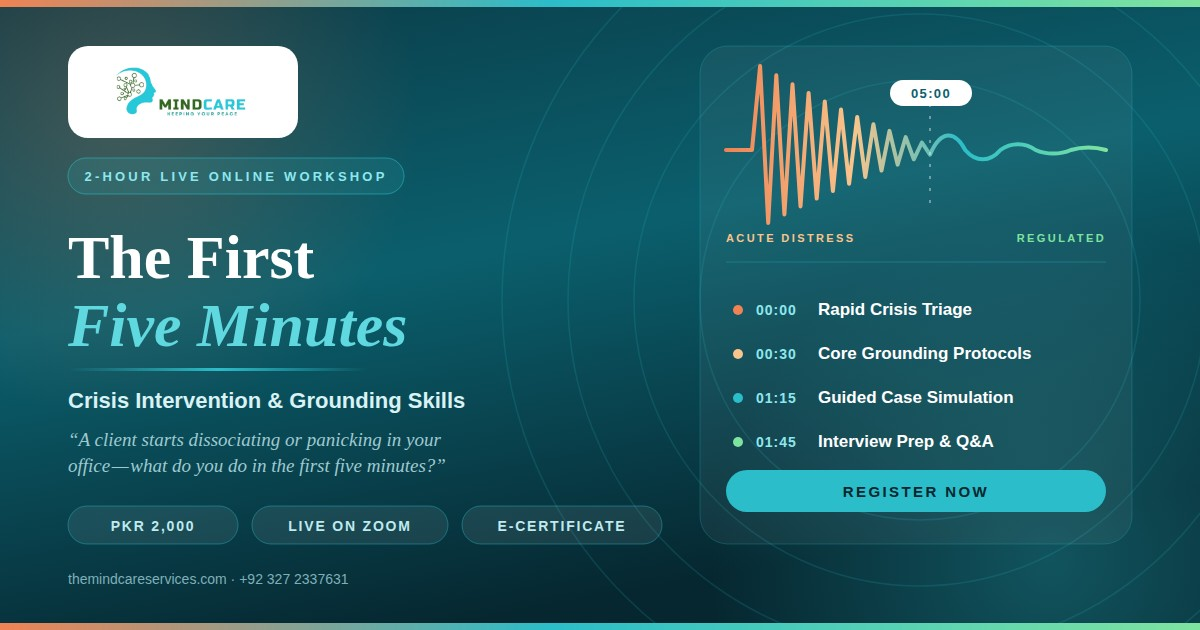
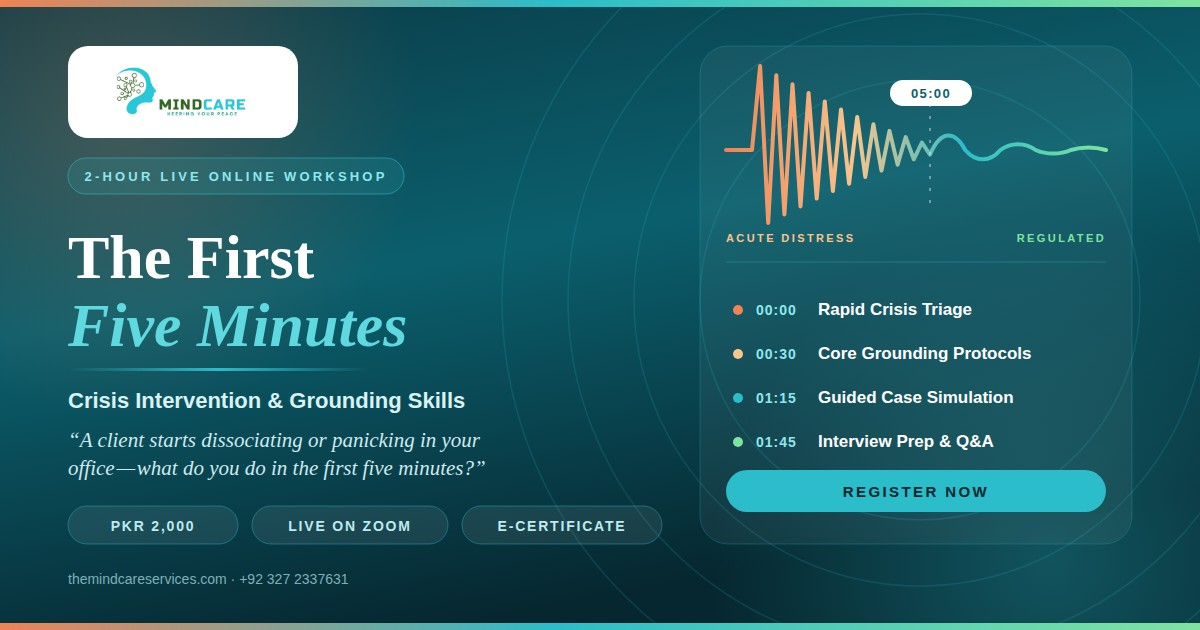
Lead the crisis workshop with its own question
The tagline is the selling point, so it now opens every surface where
the workshop is sold instead of sitting inside a supporting paragraph.

On the poster the question moves above the title: it is what stops the
scroll, and "The First Five Minutes" then reads as the answer to it.
It gains size and contrast on the share card for the same reason.

On the workshop and registration pages it becomes a pull quote directly
under the heading, and on /workshops it is the section heading itself.
It also opens the meta description on both pages, so search and social
previews lead with the question rather than with a course summary.

Claude-Session: https://claude.ai/code/session_01LHTspDj1qpkEuU9zDb3kra

Changed region(s): [[0.0617, 0.6937, 0.4008, 0.754]]

diff --git a/crisis-intervention-workshop/index.html b/crisis-intervention-workshop/index.html
@@ -8,13 +8,13 @@
 <meta name="color-scheme" content="light">
 <meta name="format-detection" content="telephone=yes">
 <title>The First Five Minutes: Crisis Intervention &amp; Grounding Skills | 2-Hour Online Workshop | MindCare Services®</title>
-<meta name="description" content="The First Five Minutes: a two-hour live online workshop for clinicians and psychology students on handling a client&#x27;s panic attack or dissociative episode in real time. Rapid crisis triage under the PFA framework, advanced grounding protocols, a guided case simulation and clinical interview prep. PKR 2,000, live on Zoom, with an e-certificate and a PDF protocol toolkit.">
+<meta name="description" content="A client starts dissociating or panicking in your office—what do you do in the first five minutes? A two-hour live online workshop for clinicians and psychology students: rapid crisis triage under the PFA framework, advanced grounding protocols, a guided case simulation and clinical interview prep. PKR 2,000, live on Zoom, with an e-certificate and a PDF protocol toolkit.">
 <meta name="author" content="MindCare Services®">
 <meta name="robots" content="index, follow, max-image-preview:large, max-snippet:-1">
 <link rel="canonical" href="https://themindcareservices.com/crisis-intervention-workshop">
 <meta property="og:type" content="website">
 <meta property="og:title" content="The First Five Minutes: Crisis Intervention &amp; Grounding Skills | 2-Hour Online Workshop | MindCare Services®">
-<meta property="og:description" content="The First Five Minutes: a two-hour live online workshop for clinicians and psychology students on handling a client&#x27;s panic attack or dissociative episode in real time. Rapid crisis triage under the PFA framework, advanced grounding protocols, a guided case simulation and clinical interview prep. PKR 2,000, live on Zoom, with an e-certificate and a PDF protocol toolkit.">
+<meta property="og:description" content="A client starts dissociating or panicking in your office—what do you do in the first five minutes? A two-hour live online workshop for clinicians and psychology students: rapid crisis triage under the PFA framework, advanced grounding protocols, a guided case simulation and clinical interview prep. PKR 2,000, live on Zoom, with an e-certificate and a PDF protocol toolkit.">
 <meta property="og:url" content="https://themindcareservices.com/crisis-intervention-workshop">
 <meta property="og:image" content="https://themindcareservices.com/assets/workshops/crisis-first-five-og.jpg">
 <meta property="og:image:secure_url" content="https://themindcareservices.com/assets/workshops/crisis-first-five-og.jpg">
@@ -26,7 +26,7 @@
 <meta property="og:locale" content="en_PK">
 <meta name="twitter:card" content="summary_large_image">
 <meta name="twitter:title" content="The First Five Minutes: Crisis Intervention &amp; Grounding Skills | 2-Hour Online Workshop | MindCare Services®">
-<meta name="twitter:description" content="The First Five Minutes: a two-hour live online workshop for clinicians and psychology students on handling a client&#x27;s panic attack or dissociative episode in real time. Rapid crisis triage under the PFA framework, advanced grounding protocols, a guided case simulation and clinical interview prep. PKR 2,000, live on Zoom, with an e-certificate and a PDF protocol toolkit.">
+<meta name="twitter:description" content="A client starts dissociating or panicking in your office—what do you do in the first five minutes? A two-hour live online workshop for clinicians and psychology students: rapid crisis triage under the PFA framework, advanced grounding protocols, a guided case simulation and clinical interview prep. PKR 2,000, live on Zoom, with an e-certificate and a PDF protocol toolkit.">
 <meta name="twitter:image" content="https://themindcareservices.com/assets/workshops/crisis-first-five-og.jpg">
 <meta name="twitter:image:alt" content="The First Five Minutes: a two-hour live online crisis intervention and grounding skills workshop by MindCare Services®">
 <link rel="icon" href="../mindcare.png" type="image/png">
@@ -251,6 +251,13 @@
 .cf-block:nth-child(2) .cf-clock{background:#c9752f}
 .cf-block:nth-child(3) .cf-clock{background:var(--teal-btn)}
 .cf-block:nth-child(4) .cf-clock{background:var(--green)}
+/* The question is the selling line, so it is set as a pull quote ahead of the
+   supporting copy rather than buried inside it. */
+.cf-hook{font-family:'Cormorant Garamond',serif;font-style:italic;font-size:clamp(1.22rem,2.3vw,1.62rem);
+ line-height:1.45;color:var(--teal-deep);max-width:660px;margin:2px 0 20px;padding-left:18px;
+ border-left:4px solid var(--teal)}
+html[dir="rtl"] .cf-hook{padding:0 18px 0 0;border-left:none;border-right:4px solid var(--teal)}
+html[data-theme="dark"] .cf-hook{color:#8fdfe8}
 .cf-honest{background:var(--teal-light);border:1px solid var(--border);border-left:5px solid var(--coral);
  border-radius:16px;padding:24px 28px;max-width:860px;margin:0 auto}
 .cf-honest h3{margin-bottom:10px}
@@ -270,7 +277,8 @@ html[data-theme="dark"] .cf-price strong{color:#6ede8a}
       <li aria-current="page">The First Five Minutes</li></ol>
     <div class="ph-badge"><svg><use href="../assets/sprite.svg#i-clock"/></svg> New &middot; 2-Hour Live Online &middot; Registration Open</div>
     <h1>The First <em>Five Minutes</em></h1>
-    <p class="lede">A client starts dissociating or panicking in your office &mdash; what do you do in the first five minutes? Clinical supervisors and interview panels don&rsquo;t just ask for definitions; they test real-time de-escalation. Two hours, live on Zoom, bridging textbook theory and practical crisis management.</p>
+    <p class="cf-hook">&ldquo;A client starts dissociating or panicking in your office&mdash;what do you do in the first five minutes?&rdquo;</p>
+    <p class="lede">Clinical supervisors and interview panels don&rsquo;t just ask for definitions &mdash; they test real-time de-escalation skills. Bridge the gap between textbook theory and practical crisis management in this intensive two-hour live online workshop.</p>
     <div class="ph-actions">
       <a href="/crisis-intervention-workshop/register" class="btn-primary"><svg width="18" height="18"><use href="../assets/sprite.svg#i-clipboard"/></svg> Reserve My Place &middot; PKR 2,000</a>
       <a href="https://wa.me/923272337631?text=Hi%21%20I%27d%20like%20to%20register%20for%20The%20First%20Five%20Minutes%20crisis%20intervention%20online%20workshop.%20Please%20share%20the%20dates%20and%20Zoom%20details." target="_blank" rel="noopener" class="btn-secondary"><svg width="18" height="18"><use href="../assets/sprite.svg#i-wa"/></svg> Ask us on WhatsApp</a>

diff --git a/crisis-intervention-workshop/register.html b/crisis-intervention-workshop/register.html
@@ -8,13 +8,13 @@
 <meta name="color-scheme" content="light">
 <meta name="format-detection" content="telephone=yes">
 <title>Register: The First Five Minutes Crisis Intervention Workshop | MindCare Services®</title>
-<meta name="description" content="Register for The First Five Minutes, the MindCare Services® two-hour live online crisis intervention and grounding skills workshop. PKR 2,000 covers the live Zoom session, the E-Certificate of Completion and the PDF handout and protocol toolkit. Pay by bank transfer and attach your payment screenshot to the form.">
+<meta name="description" content="A client starts dissociating or panicking in your office—what do you do in the first five minutes? Register for The First Five Minutes, the MindCare Services® two-hour live online crisis intervention and grounding skills workshop. PKR 2,000 covers the live Zoom session, the E-Certificate of Completion and the PDF handout and protocol toolkit. Pay by bank transfer and attach your payment screenshot to the form.">
 <meta name="author" content="MindCare Services®">
 <meta name="robots" content="index, follow, max-image-preview:large, max-snippet:-1">
 <link rel="canonical" href="https://themindcareservices.com/crisis-intervention-workshop/register">
 <meta property="og:type" content="website">
 <meta property="og:title" content="Register: The First Five Minutes Crisis Intervention Workshop | MindCare Services®">
-<meta property="og:description" content="Register for The First Five Minutes, the MindCare Services® two-hour live online crisis intervention and grounding skills workshop. PKR 2,000 covers the live Zoom session, the E-Certificate of Completion and the PDF handout and protocol toolkit. Pay by bank transfer and attach your payment screenshot to the form.">
+<meta property="og:description" content="A client starts dissociating or panicking in your office—what do you do in the first five minutes? Register for The First Five Minutes, the MindCare Services® two-hour live online crisis intervention and grounding skills workshop. PKR 2,000 covers the live Zoom session, the E-Certificate of Completion and the PDF handout and protocol toolkit. Pay by bank transfer and attach your payment screenshot to the form.">
 <meta property="og:url" content="https://themindcareservices.com/crisis-intervention-workshop/register">
 <meta property="og:image" content="https://themindcareservices.com/assets/workshops/crisis-first-five-og.jpg">
 <meta property="og:image:secure_url" content="https://themindcareservices.com/assets/workshops/crisis-first-five-og.jpg">
@@ -26,7 +26,7 @@
 <meta property="og:locale" content="en_PK">
 <meta name="twitter:card" content="summary_large_image">
 <meta name="twitter:title" content="Register: The First Five Minutes Crisis Intervention Workshop | MindCare Services®">
-<meta name="twitter:description" content="Register for The First Five Minutes, the MindCare Services® two-hour live online crisis intervention and grounding skills workshop. PKR 2,000 covers the live Zoom session, the E-Certificate of Completion and the PDF handout and protocol toolkit. Pay by bank transfer and attach your payment screenshot to the form.">
+<meta name="twitter:description" content="A client starts dissociating or panicking in your office—what do you do in the first five minutes? Register for The First Five Minutes, the MindCare Services® two-hour live online crisis intervention and grounding skills workshop. PKR 2,000 covers the live Zoom session, the E-Certificate of Completion and the PDF handout and protocol toolkit. Pay by bank transfer and attach your payment screenshot to the form.">
 <meta name="twitter:image" content="https://themindcareservices.com/assets/workshops/crisis-first-five-og.jpg">
 <meta name="twitter:image:alt" content="The First Five Minutes: a two-hour live online crisis intervention and grounding skills workshop by MindCare Services®">
 <link rel="icon" href="../mindcare.png" type="image/png">
@@ -130,6 +130,11 @@
 <main id="main">
 <style>
 .tm-reg-wrap{max-width:660px;margin:0 auto}
+/* The question is the selling line: it sits between the heading and the
+   practical copy, and stays the largest thing after the heading itself. */
+.cf-hook{font-family:'Cormorant Garamond',serif;font-style:italic;font-size:clamp(1.12rem,2.2vw,1.36rem);
+ line-height:1.5;color:var(--teal-deep);max-width:560px;margin:14px auto 12px}
+html[data-theme="dark"] .cf-hook{color:#8fdfe8}
 .tm-form{background:var(--card);border:1px solid var(--border);border-radius:22px;padding:32px;box-shadow:var(--shadow-soft)}
 .tm-row{display:grid;grid-template-columns:1fr 1fr;gap:14px}
 .tm-field{margin-bottom:15px}
@@ -211,6 +216,7 @@ html[data-theme="dark"] .tm-alert{background:#3a1c1c;border-color:#5e2b2b;color:
       <div class="section-header centered" style="margin-bottom:26px">
         <span class="section-tag">Registration Open</span>
         <h1 class="section-title" style="font-size:2.1rem">Register for The First Five Minutes</h1>
+        <p class="cf-hook">&ldquo;A client starts dissociating or panicking in your office&mdash;what do you do in the first five minutes?&rdquo;</p>
         <p class="section-sub">Two hours, live on Zoom, on crisis intervention and grounding skills. Fill in your details, transfer <strong>PKR 2,000</strong>, and attach the screenshot of your payment. We confirm your seat once the two are matched and send you the joining link.</p>
       </div>
 

diff --git a/workshops.html b/workshops.html
@@ -305,7 +305,7 @@ html[data-theme="dark"] .mf-poster{background:#f7fdfd}
 
 <section id="first-five-minutes">
   <div class="section-inner">
-    <div class="section-header centered fade-up"><span class="section-tag">Open · Live Online · PKR 2,000</span><h2 class="section-title">What do you do in the first five minutes?</h2><p class="section-sub">A client starts dissociating or panicking in your office. Two hours, live on Zoom, on the triage, the grounding protocols and the exact words that get the next five minutes right.</p></div>
+    <div class="section-header centered fade-up"><span class="section-tag">Open · Live Online · PKR 2,000</span><h2 class="section-title">&ldquo;A client starts dissociating or panicking in your office&mdash;what do you do in the first five minutes?&rdquo;</h2><p class="section-sub">Clinical supervisors and interview panels don&rsquo;t just ask for definitions &mdash; they test real-time de-escalation skills. Two hours, live on Zoom, on the triage, the grounding protocols and the exact words that get the next five minutes right.</p></div>
     <div class="split-grid fade-up" style="display:grid;grid-template-columns:repeat(auto-fit,minmax(min(290px,100%),1fr));gap:36px;align-items:center">
       <div>
         <a href="/crisis-intervention-workshop" aria-label="The First Five Minutes, crisis intervention and grounding skills workshop details"><img src="assets/workshops/crisis-first-five-poster.svg" alt="The First Five Minutes: a two-hour live online crisis intervention and grounding skills workshop by MindCare Services®" width="900" height="1200" class="ws-dark-poster"></a>
@@ -313,7 +313,7 @@ html[data-theme="dark"] .mf-poster{background:#f7fdfd}
       <div>
         <span class="section-tag">2 Hours · Live on Zoom · E-Certificate</span>
         <h3 style="font-size:1.7rem;margin:10px 0 12px">The First <em>Five Minutes</em></h3>
-        <p style="margin-bottom:16px">Clinical supervisors and interview panels don&rsquo;t just ask for definitions &mdash; they test real-time de-escalation. This bridges the gap between textbook theory and practical crisis management, for clinicians, trainees and students.</p>
+        <p style="margin-bottom:16px">The gap between textbook theory and practical crisis management, closed in one sitting: rapid triage, the somatic tools that settle an activated nervous system, and the exact words to say while you use them. For clinicians, trainees and students.</p>
         <ul class="aside-list">
       <li><svg width="22" height="22"><use href="assets/sprite.svg#i-check"/></svg><span>00:00 – 00:30 · Rapid crisis triage under the PFA framework</span></li>
       <li><svg width="22" height="22"><use href="assets/sprite.svg#i-check"/></svg><span>00:30 – 01:15 · Core grounding protocols and de-escalation scripts</span></li>
